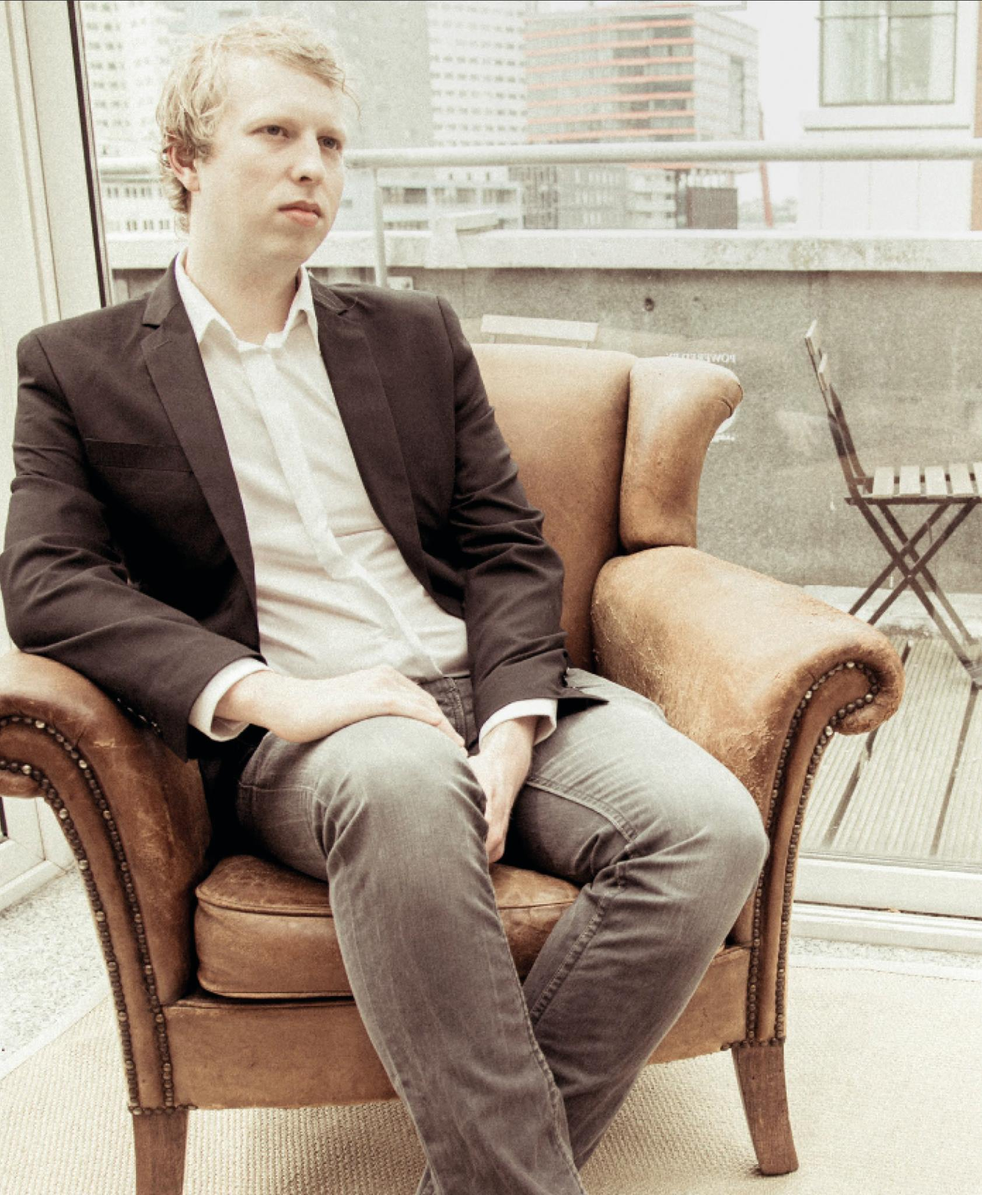
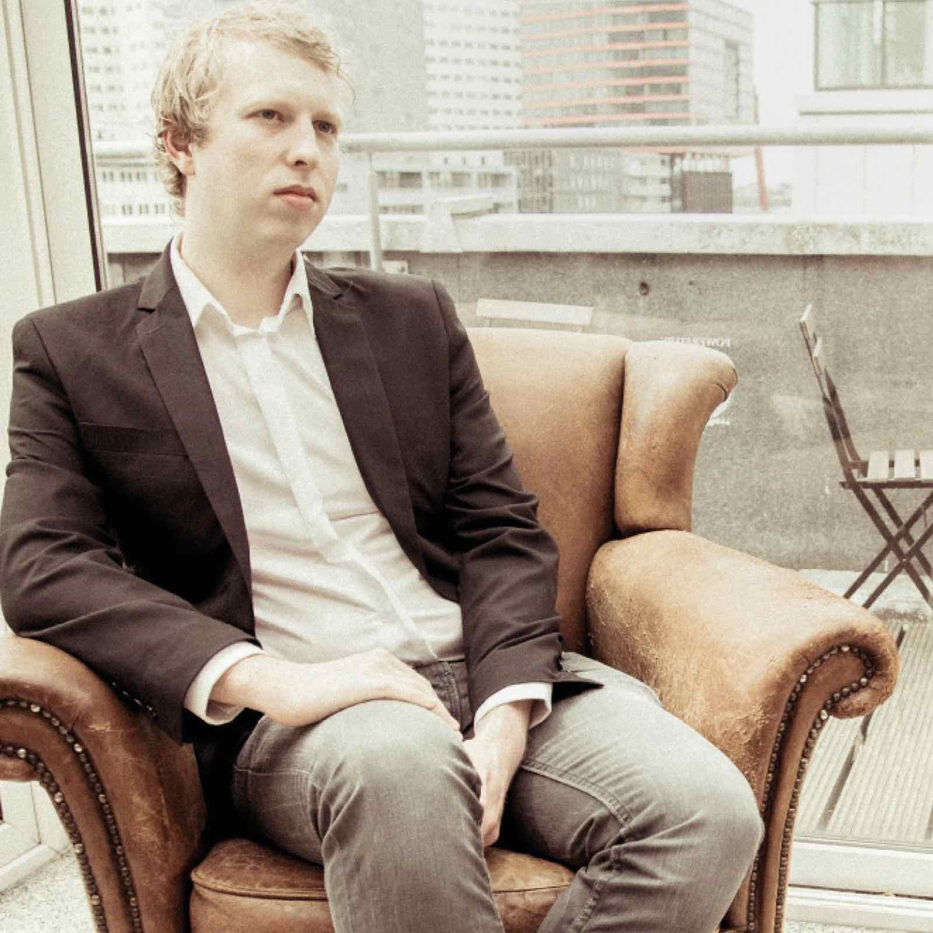
Added image to page.

diff --git a/src/app/pages/about/about.tpl.html b/src/app/pages/about/about.tpl.html
@@ -1,9 +1,12 @@
 <section class="container content-regular">
+    <header class="heading">
+        <h1>Over mij</h1>
+    </header>
     <div class="row">
-        <div class="col-md-9 col-md-offset-1 col-lg-8 col-lg-offset-2">
-            <header class="heading">
-                <h1>Contact</h1>
-            </header>
+        <div class="paragraph-media col-sm-6 col-md-4 col-lg-3">
+            <img src="/assets/images/jurgenromeijn.jpg" class="img-responsive">
+        </div>
+        <div class="col-sm-6 col-md-8 col-lg-9">
             <p class="lead">Ik ben een back-end Consultant met een brede interesse: ook front-end development, game development, mobile development en interaction design vind ik leuk. Ik begrijp andere disciplines en kan daardoor goed in teams werken.</p>
             <p>Naast mijn studie heb ik drie jaar bij DPI Animation House gewerkt aan grote en complexe projecten als sparta.nl. Ik ben stressbestendig, creatief en analytisch. Ik pik dingen snel op en ben heel leergierig, hierdoor ben ik breed in te zetten. Ik denk graag met de klant mee bij het oplossen van complexe vraagstukken die goed op de eindgebruiker aansluiten.</p>
             <p>In mijn vrije tijd ben ik graag bezig met lezen, films kijken, games spelen en muziek luisteren. Ik ben gek op fantasy en science fiction boeken en films en ben geïnteresseerd in natuurkunde. Sinds enige tijd ben ik ook bezig met gitaar leren spelen.</p>

diff --git a/src/app/pages/text.scss b/src/app/pages/text.scss
@@ -11,7 +11,7 @@
   width: $spacing;
 }
 
-p {
+p, .paragraph-media {
   margin: 0 0 20px;
 
   &.lead {
